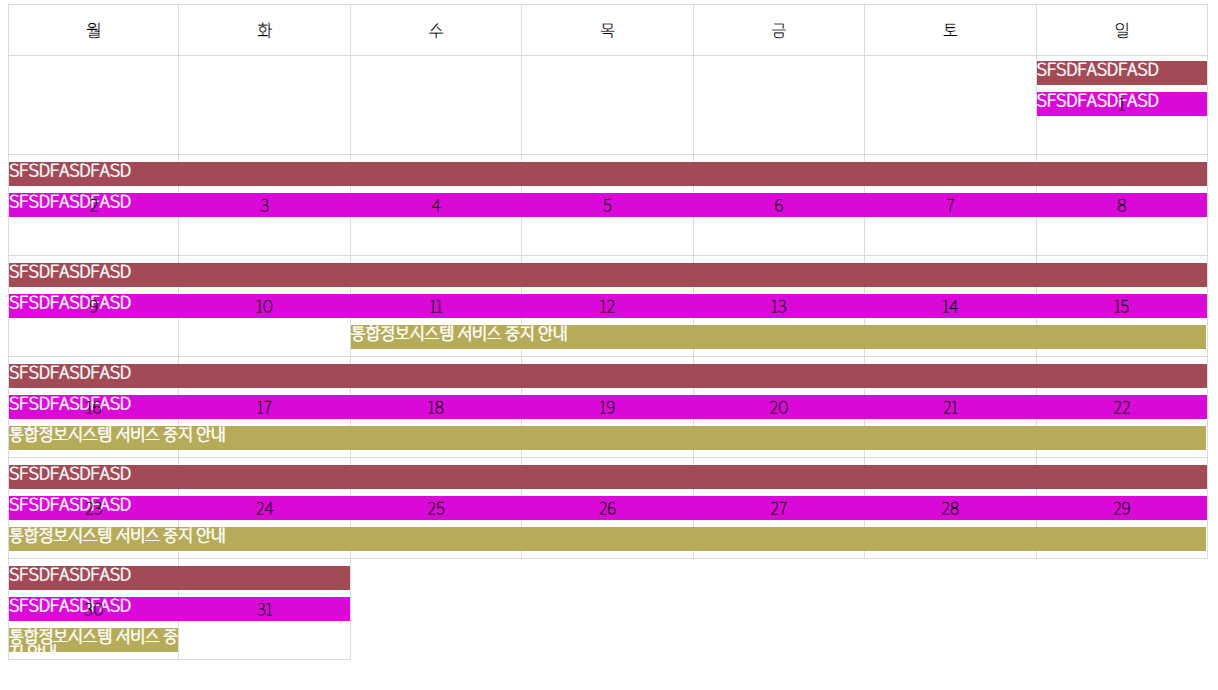
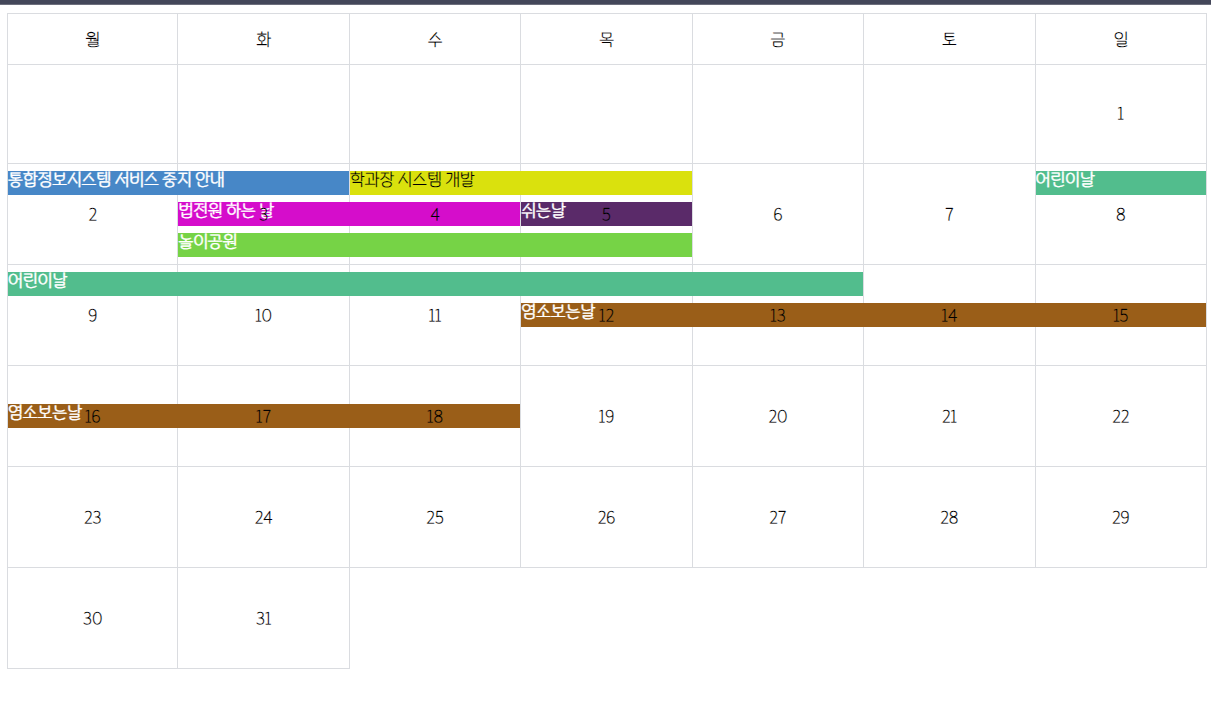
오류수정

diff --git a/index.html b/index.html
@@ -35,10 +35,13 @@
     ];
 
     let my_data2 = [
-      { jemok: "통합정보시스템 서비스 중지 안내", stt_dt: "20231011", stt_time: "0900", end_dt: "20231030", end_time: "2400" },
-      { jemok: "SFSDFASDFASD", stt_dt: "20231021", stt_time: "0900", end_dt: "20231031", end_time: "2400" },
-      { jemok: "SFSDFASDFASD", stt_dt: "20231001", stt_time: "0900", end_dt: "20231031", end_time: "2400" },
-      { jemok: "SFSDFASDFASD", stt_dt: "20231001", stt_time: "0900", end_dt: "20231031", end_time: "2400" },
+      { jemok: "통합정보시스템 서비스 중지 안내", stt_dt: "20231002", stt_time: "0900", end_dt: "20231003", end_time: "2400" },
+      { jemok: "법전원 하는 날", stt_dt: "20231003", stt_time: "0900", end_dt: "20231004", end_time: "2400" },
+      { jemok: "학과장 시스템 개발", stt_dt: "20231004", stt_time: "0900", end_dt: "20231005", end_time: "2400" },
+      { jemok: "쉬는날", stt_dt: "20231005", stt_time: "0900", end_dt: "20231005", end_time: "2400" },
+      { jemok: "놀이공원", stt_dt: "20231003", stt_time: "0900", end_dt: "20231005", end_time: "2400" },
+      { jemok: "어린이날", stt_dt: "20231008", stt_time: "0900", end_dt: "20231013", end_time: "2400" },
+      { jemok: "염소보는날", stt_dt: "20231012", stt_time: "0900", end_dt: "20231018", end_time: "2400" },
     ];
 
     my_data2 = my_data2.sort((a, b) => {

diff --git a/draw.js b/draw.js
@@ -372,8 +372,14 @@ DrawSchedule.prototype.draw2 = function () {
 
     for (let i = start_day; i <= end_day; i++) {
       let target = this.dataMap[i - 1];
-      let target_arr = target.data_children.filter((d) => d.used === false);
-      beanCell.push({ ...target_arr, idx: i });
+      let target_arr = [];
+      target.data_children.map((d) => {
+        if (d.used == false) {
+          target_arr.push(d);
+        }
+      });
+
+      beanCell.push({ ...target_arr });
     }
 
     /** @type {Array} */
@@ -386,13 +392,12 @@ DrawSchedule.prototype.draw2 = function () {
         }
         return prev;
       } else {
-        let ra = [];
         for (let ij = 0; ij < 3; ij++) {
           if (typeof curr[ij] !== "undefined" && typeof prev[ij] !== "undefined") {
-            ra.push(curr[ij].idx);
+            prev.push(curr[ij].idx);
           }
         }
-        return ra;
+        return prev;
       }
     }, []);
 
